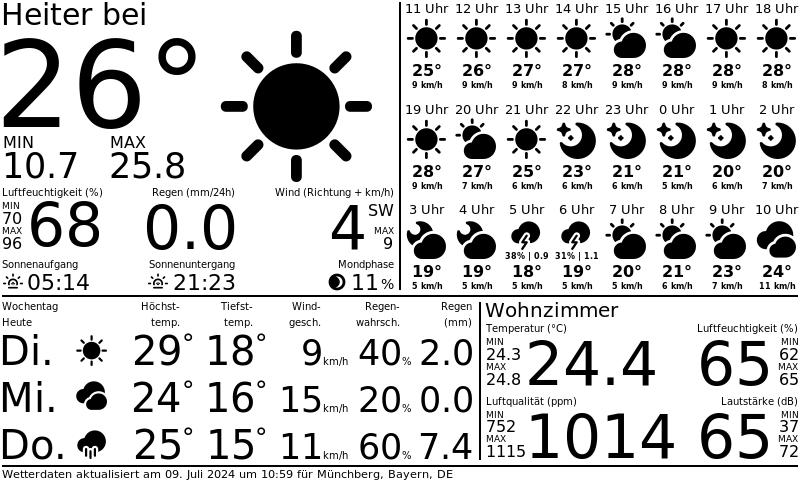
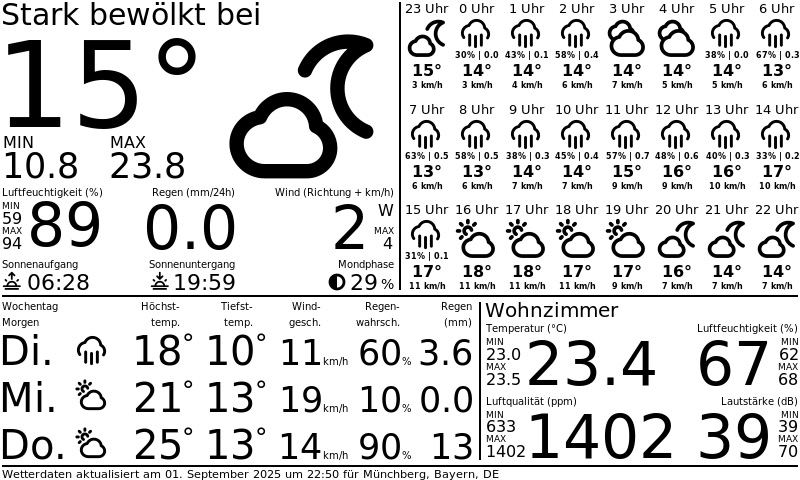
Refactor HA integration to use MQTT
- Replace PHP http bridge with direct MQTT communication.
- Transfer statistical values (battery, battery_voltage, refresh_time) to Home Assistant via MQTT.
- Make device configuration (MQTT topics, bitmap URL) dynamic from a single variable.
- Add configuration.yaml example file for Home Assistant.
- Update weatherdata preview image in README.

diff --git a/platformio/src/main.cpp b/platformio/src/main.cpp
@@ -40,11 +40,16 @@
 #include <HTTPClient.h>
 #include "LittleFS.h"
 
+#include <PubSubClient.h> // <-- HINZUFÜGEN
+
+
 // too large to allocate locally on stack
 //static owm_resp_onecall_t       owm_onecall;
 //static owm_resp_air_pollution_t owm_air_pollution;
 
 Preferences prefs;
+WiFiClient espClient;
+PubSubClient mqttClient(espClient);
 
 /* Put esp32 into ultra low-power deep sleep (<11μA).
  * Aligns wake time to the minute. Sleep times defined in config.cpp.
@@ -224,46 +229,57 @@ bool loadBitmapFromFile(const char* path, uint8_t** data, size_t* size) {
   return true;
 }
 
-/* Function to send statistic data to a Home Assistant http-bridge
+/**
+ * @brief Connects to the MQTT Broker.
+ * Dynamically builds the Client ID.
+ * @return true on success, false on failure.
  */
-bool sendValuesToBridge(const char* bridge_url, const char* entity_ids[], uint32_t values[], int num_entities) {
-  HTTPClient http;
-  http.setConnectTimeout(HTTP_CLIENT_TCP_TIMEOUT);
-  http.setTimeout(HTTP_CLIENT_TCP_TIMEOUT);
+bool connectMqtt() {
+  Serial.println("Connecting to MQTT Broker...");
+  mqttClient.setServer(MQTT_BROKER_IP, MQTT_BROKER_PORT);
   
-  http.begin(bridge_url);
+  String clientId = String(MQTT_TOPIC_PREFIX) + "_" + String(DEVICE_NAME);
 
-  // JSON-Header
-  http.addHeader("Content-Type", "application/json");
-
-  // JSON-Payload
-  String payload = "[";
-  for (int i = 0; i < num_entities; i++) {
-    payload += "{\"entity_id\": \"" + String(entity_ids[i]) + "\", \"value\": " + String(values[i]) + "}";
-    if (i < num_entities - 1) payload += ",";
-  }
-  payload += "]";
-
-  // sent HTTP-POST
-  int httpCode = http.POST(payload);
-
-  // check HTTP-Code
-  if (httpCode > 0) {
-    if (httpCode == HTTP_CODE_OK || httpCode == HTTP_CODE_CREATED) {
-      Serial.println("Data successfully sent.");
-      //String response = http.getString();
-      //Serial.println("Response from the Bridge: " + response);
-      http.end();
-      return true;
-    } else {
-      Serial.printf("Error: HTTP-Code: %d\n", httpCode);
-    }
+  if (mqttClient.connect(clientId.c_str(), MQTT_USER, MQTT_PASSWORD)) {
+    Serial.println("MQTT connected with Client-ID: " + clientId);
+    return true;
   } else {
-    Serial.printf("Error in HTTP POST: %s\n", http.errorToString(httpCode).c_str());
+    Serial.print("MQTT connection failed, rc=");
+    Serial.println(mqttClient.state());
+    return false;
   }
+}
 
-  http.end();
-  return false;
+/**
+ * @brief Sends the provided values to the dynamically generated MQTT topics.
+ * This function is only responsible for transmission, not calculation.
+ * @param voltage The measured battery voltage.
+ * @param percent The calculated battery percentage.
+ * @param refresh The refresh interval in minutes.
+ */
+void sendMqttData(float voltage, int percent, int refresh) {
+  char msgBuffer[10];
+  String topic; 
+
+  // Build the base topic for this device, e.g., "home/weatherdisplays/livingroom"
+  String baseTopic = String(MQTT_TOPIC_PREFIX) + "/" + String(DEVICE_NAME);
+
+  // 1. Publish Battery Voltage
+  dtostrf(voltage, 4, 2, msgBuffer);
+  topic = baseTopic + "/battery_voltage";
+  mqttClient.publish(topic.c_str(), msgBuffer, true);
+  
+  // 2. Publish Battery Percentage
+  itoa(percent, msgBuffer, 10);
+  topic = baseTopic + "/battery_percent";
+  mqttClient.publish(topic.c_str(), msgBuffer, true);
+  
+  // 3. Publish Refresh Interval
+  itoa(refresh, msgBuffer, 10);
+  topic = baseTopic + "/refresh_time_seconds";
+  mqttClient.publish(topic.c_str(), msgBuffer, true);
+
+  Serial.println("MQTT data sent to base topic: " + baseTopic);
 }
 
 
@@ -544,18 +560,19 @@ void setup()
   powerOffDisplay();
 
 
-  // HOMEASSISTANT
-  const char* ha_entity_ids[] = {haBatteryVolt, haBattery, haRefreshTime};
-
+  // HOMEASSISTANT MQTT
   uint32_t batPercent = calcBatPercent(batteryVoltage, CRIT_LOW_BATTERY_VOLTAGE, MAX_BATTERY_VOLTAGE);
   uint32_t refreshTime = (millis() - startTime) / 1000;
 
-  uint32_t values[] = {batteryVoltage, batPercent, refreshTime};
-  int num_entities = 3;
-
-  sendValuesToBridge(bridge_url, ha_entity_ids, values, num_entities);
-
-
+  if (connectMqtt()) {
+    sendMqttData(
+      batteryVoltage, 
+      batPercent, 
+      refreshTime
+    );
+    
+    mqttClient.disconnect();
+  }
 
   killWiFi(); // WiFi no longer needed
 

diff --git a/platformio/src/config.cpp b/platformio/src/config.cpp
@@ -54,17 +54,21 @@ const unsigned HTTP_CLIENT_TCP_TIMEOUT = 10000; // ms
 // FS
 const char* bitmapPATH = "/image.bin";
 
+// DEVICE
+const char* DEVICE_NAME         = "wohnzimmer";
+
+// MQTT
+const char* MQTT_BROKER_IP      = "192.168.1.10";
+const int   MQTT_BROKER_PORT    = 1883;
+const char* MQTT_USER           = "mqtt";
+const char* MQTT_PASSWORD       = "secret";
+const char* MQTT_TOPIC_PREFIX     = "weatherdisplay";
 
 //
 // URLs
 //
 const char* bitmapURL = "http://192.168.1.10/weatherdata.bin"
 //const char* bitmapURL = "https://domain.tld/weatherdata.bin";
-const char* bridge_url = "http://192.168.1.10/httpBridgeToHomeassistant.php";
-
-const char* haBattery = "input_number.firebeetle_esp32_wetterdisplay_bad_batterie";
-const char* haBatteryVolt = "input_number.firebeetle_esp32_wetterdisplay_bad_batterie_spannung";
-const char* haRefreshTime = "input_number.firebeetle_esp32_wetterdisplay_bad_aktualisierungsdauer";
 
 
 // Sleep duration in minutes. (aka how often esp32 will wake for an update)
@@ -73,6 +77,7 @@ const char* haRefreshTime = "input_number.firebeetle_esp32_wetterdisplay_bad_akt
 // minutes past the hour. (range: [2-60])
 //const long SLEEP_DURATION = 30;
 const long SLEEP_DURATION = 15;
+//const long SLEEP_DURATION = 1;
 
 // BATTERY
 // To protect the battery upon LOW_BATTERY_VOLTAGE, the display will cease to

diff --git a/platformio/include/config.h b/platformio/include/config.h
@@ -280,10 +280,12 @@ extern const unsigned long WIFI_TIMEOUT;
 extern const unsigned HTTP_CLIENT_TCP_TIMEOUT;
 extern const char * bitmapPATH;
 extern const char * bitmapURL;
-extern const char *bridge_url;
-extern const char *haBattery;
-extern const char *haBatteryVolt;
-extern const char *haRefreshTime;
+extern const char* DEVICE_NAME;
+extern const char* MQTT_BROKER_IP;
+extern const int   MQTT_BROKER_PORT;
+extern const char* MQTT_USER;
+extern const char* MQTT_PASSWORD;
+extern const char* MQTT_TOPIC_PREFIX;
 extern const String OWM_APIKEY;
 extern const String OWM_ENDPOINT;
 extern const String OWM_ONECALL_VERSION;

diff --git a/README.md b/README.md
@@ -29,13 +29,13 @@ The Python script that retrieves the local weather data, replaces the variables 
 - Display recognition commented out and only the display GDEY075T7 added
 - Added logic for downloading, saving and reading a binary file for the EPD
 - Auto-Check if the URL starts with "https" or "http"
-- Transfer statistical values to local Home Assistant installation via a simple http to https bridge.
+- Transfer statistical values (battery, battery_voltage, refresh_time) to Home Assistant via MQTT - see [configuration.yaml example](server/homeassistant_configuration-yaml_mqtt-example.txt).
 - Time synchronization (NTP) deactivated, is not required, deep sleep of the ESP32 is permanently set to 15 or 30 minutes
 - All drawings which were executed on the ESP32 commented out, except the errors and the status bar (slightly changed)
 
 ## FireBeetle 2 ESP32-E "Download-Mode"
 
-Visual Studio Code on the Mac can put the FireBeetle 2 ESP32-E into download mode without further action before the upload. This does not work on a Windows PC, here you have to connect pin D5 / 0 to ground (GND) to get the ESP32 into download mode so that the program can be updated.öö
+Visual Studio Code on the Mac can put the FireBeetle 2 ESP32-E into download mode without further action before the upload. This does not work on all Windows PC, here you have to connect pin D5 / 0 to ground (GND) to get the ESP32 into download mode so that the program can be updated.
 
 ## Good-Display GDEY075T7
 
@@ -44,17 +44,6 @@ I have not connected the display GDEY075T7 with the DESPI-C02 to the GPIO pin D3
 ## Battery life
 
 That is absolutely impressive. Because the ESP32 doesn't have to process any weather data here but only receives a finished image and has to display it, I was able to significantly increase the battery life again. With the 4000 mAh battery, the ESP32 manages approx. 12000 display refreshes. This means that if the weather image is updated every 15 minutes, the battery will last for approx. 125 days. Using HTTP instead of HTTPS increases battery life by a further 40-60%.
-
-## HTTP Bridge for Home Assistant
-
-### Overview
-Directly sending HTTPS POST requests to Home Assistant from the ESP32 led to memory allocation errors (`SSL - Memory allocation failed`) due to limited RAM on the ESP32 when handling SSL handshakes. To work around this, an HTTP bridge was implemented.
-
-### Bridge Functionality
-The bridge script, located at `server/httpBridgeToHomeassistant.php`, receives HTTP POST data from the ESP32 and securely forwards it to the Home Assistant REST API over HTTPS. This allows the ESP32 to send data without SSL, while the bridge handles secure communication with Home Assistant. 
-
-**Note**: Ensure the bridge PHP file is hosted on an HTTP (not HTTPS) server within your network.
-
 
 ***
 
